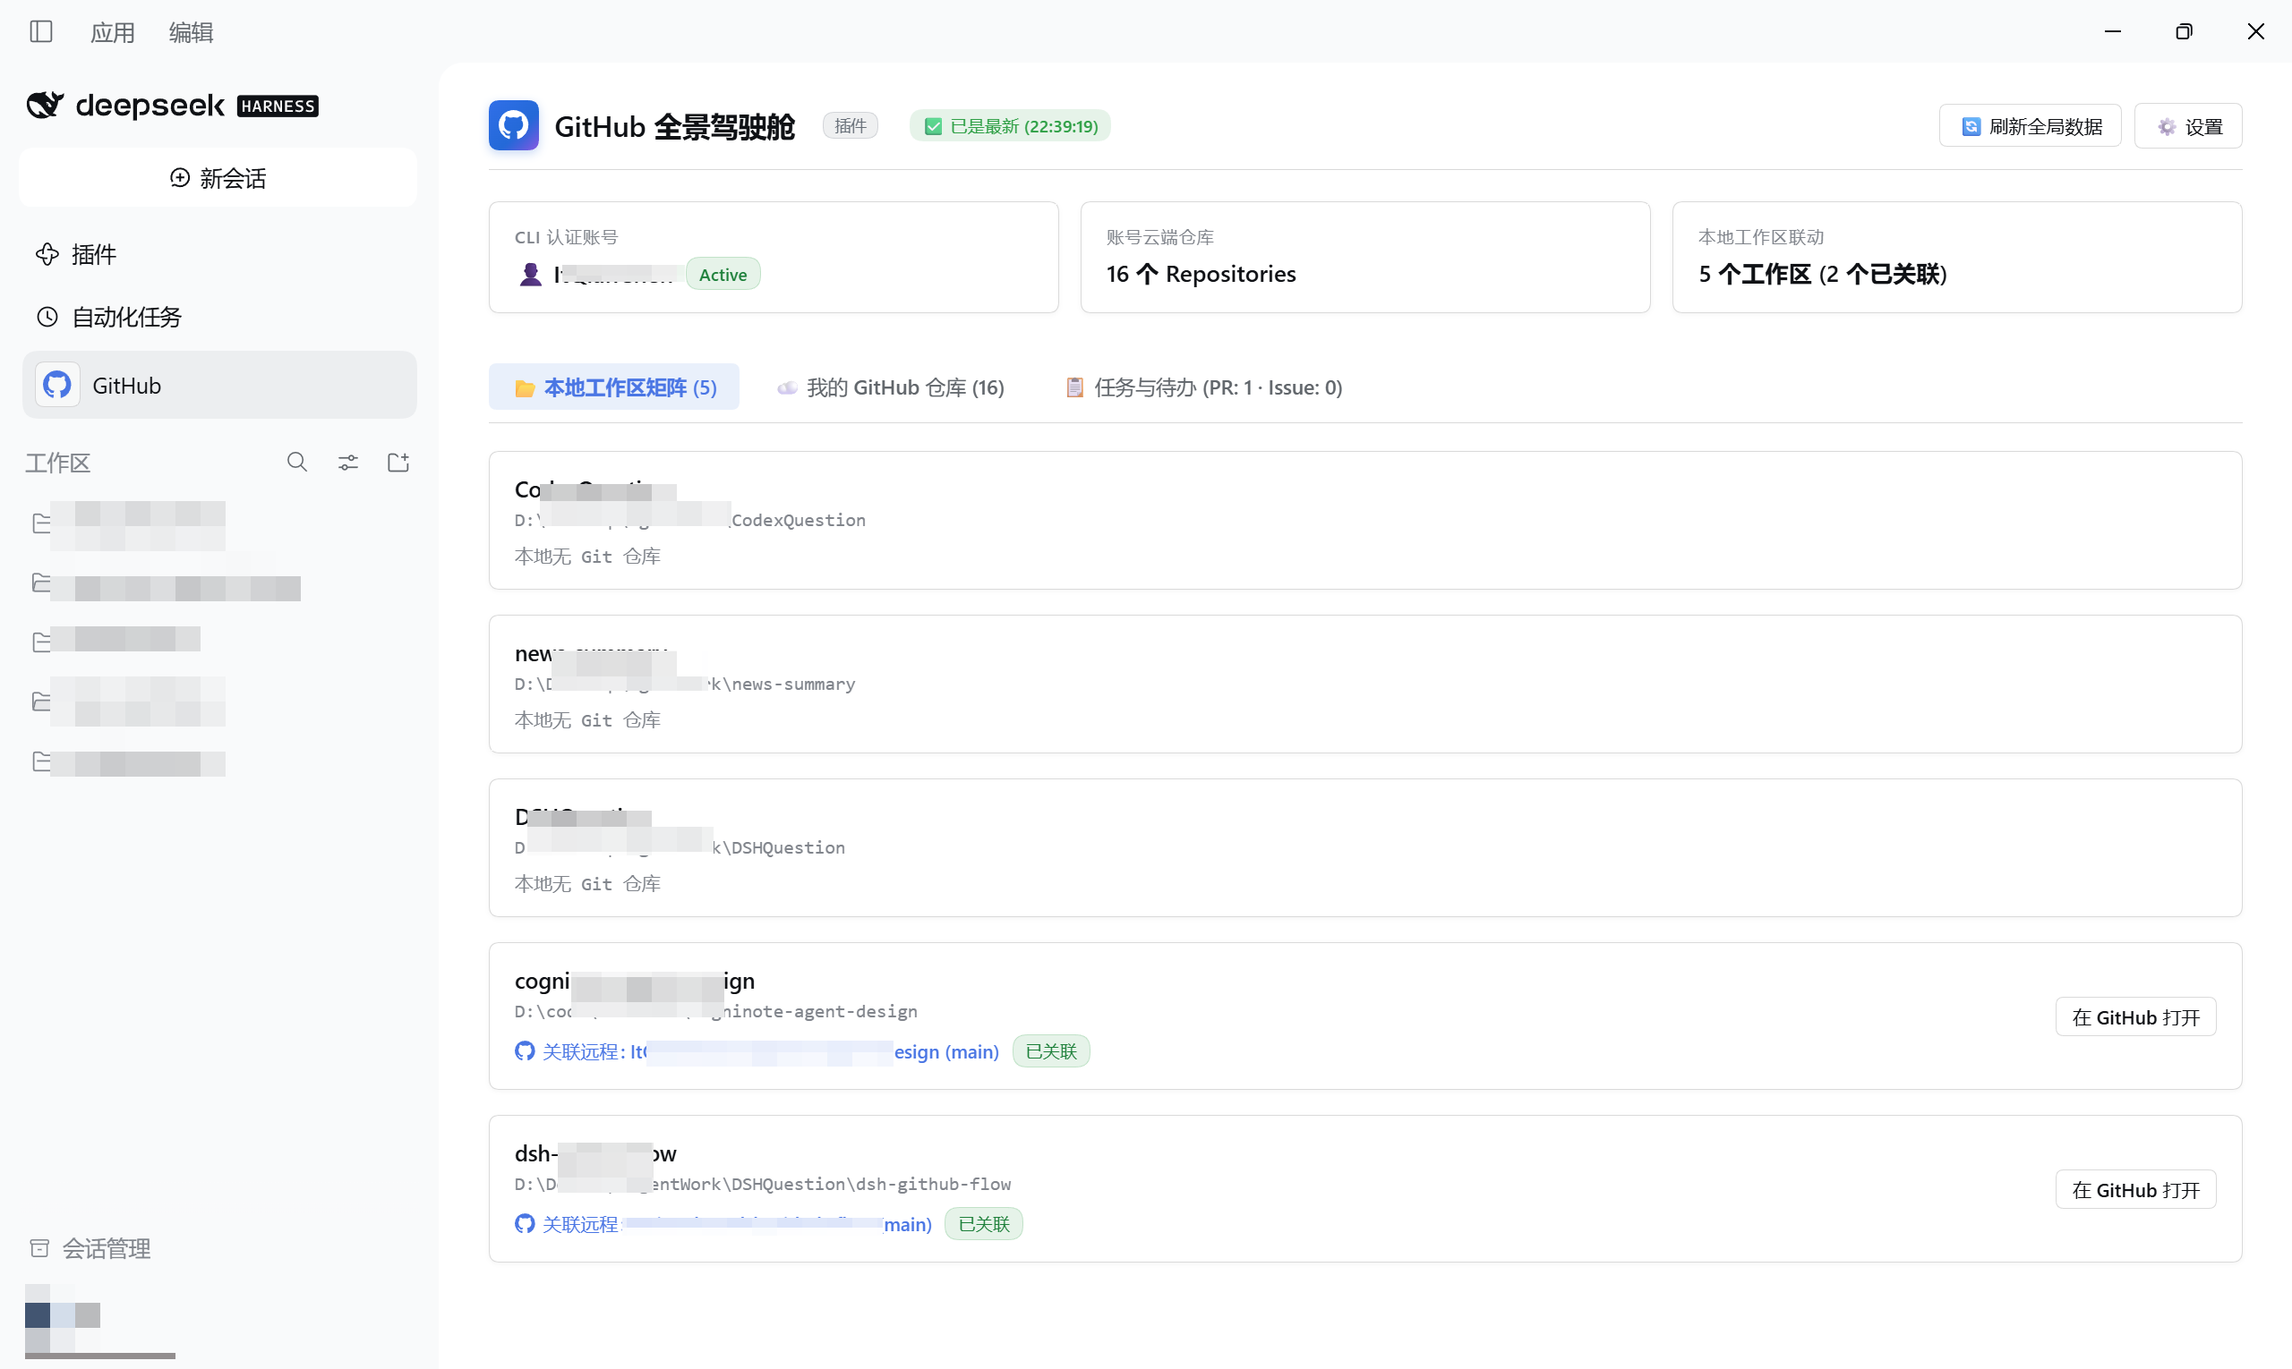
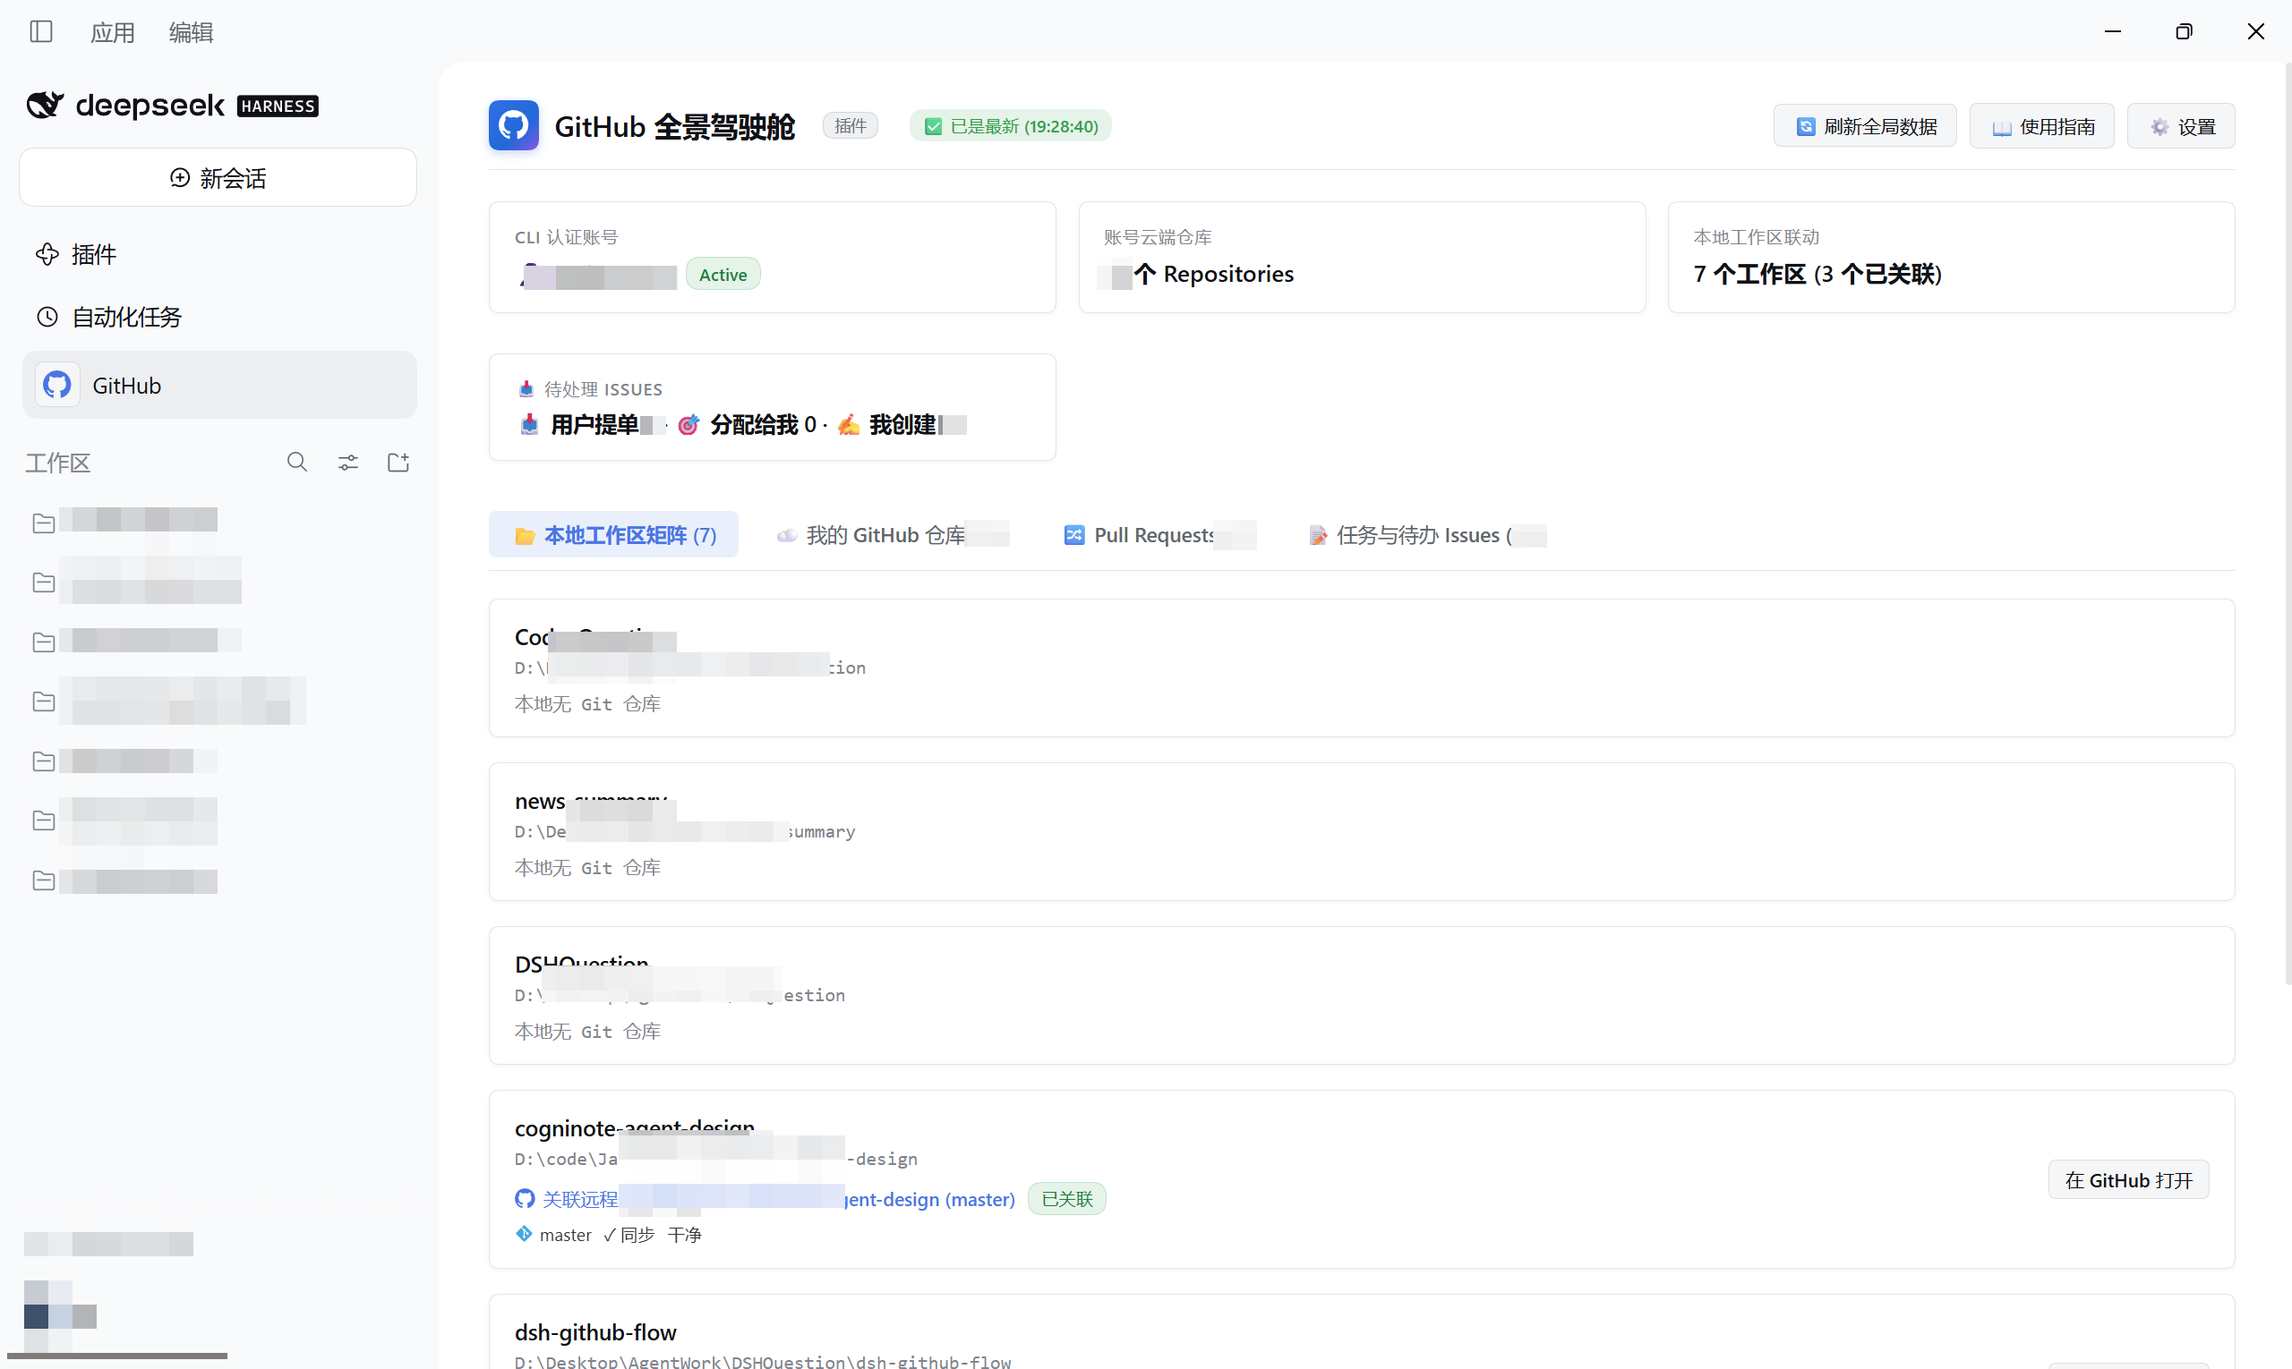
docs: 补充使用指南入口与架构实测数据，并同步驾驶舱截图
- README 中英双语新增「使用指南大窗口」入口，补充 view_images 图片缓存 LRU 与 DSH_IMAGE_DIR 说明
- architecture 修正 client.ts / 子模块 / CSS 行数与渲染器数量为实测值
- 更新全景驾驶舱截图，反映设置中心新增的使用指南页签

diff --git a/docs/architecture.md b/docs/architecture.md
@@ -115,8 +115,8 @@
 
 ### 2.3 上下文 Token 保护与防御性输出包装 (Token Budget Guard)
 - 所有的 `gh` 查询原生采用 `--json <fields>` 结构化投影；
-- 对长文本输出（如大型 PR 的完整 `diff`、CI 失败步骤日志）设置安全截断阈值（默认 24KB），采用码点安全切割与二分查找字节截断（`src/executor/process-utils.ts`），保留头尾关键上下文并添加显式截断标记，杜绝撑爆模型上下文；
-- 列表与详情输出经独立 Markdown 渲染引擎（`src/renderers/` 7 大领域模块）转化为高密度表格与卡片（带状态徽章、可点击超链接与竖线转义防护），实测 20 条 PR 列表输出压缩 70%+ Token；
+- 对长文本输出（如大型 PR 的完整 `diff`、CI 失败步骤日志）设置安全截断阈值（默认 24KB），采用码点安全切割与二分查找字节截断（`src/executor/process-utils.ts`），保留头尾关键上下文并添加显式截断标记，杜绝撑爆模型上下文；**程序化消费的大载荷可按调用点显式放宽**（PR diff 与 Issue 详情放宽至 2MB 字符 / 8MB 字节），因为这两类数据只在服务端切片后渲染，不进入模型上下文；**且一旦真的被截断必须显式失败**——截断会让 `JSON.parse` 被跳过、`data` 变 `undefined`，静默降级会渲染出「元数据全空 + 零评论」的假详情；
+- 列表与详情输出经独立 Markdown 渲染引擎（`src/renderers/` 15 大领域模块 + `common.ts` + `markdown.ts` 门面）转化为高密度表格与卡片（带状态徽章、可点击超链接与竖线转义防护），实测 20 条 PR 列表输出压缩 70%+ Token；
 - 所有 Agent 工具的输出统一经过归一化，列表自动打包为 `{ items, count }`，标量打包为 `{ result }`，100% 严丝合缝契合 DSH 工具网关模式约束；
 - **gh 版本守卫降级链（runGuarded）**：preview 命令与新特性按 `minVersion` 门槛路由——版本达标直通主命令、不足走 `fallback` 降级链路（结果携带 `degraded/degradedReason` 结构化标注，**降级不是静默的**，渲染层对 degraded 结果显式追加链路说明）、无降级时报错附平台升级指引；版本探测自身失败 fail-open 直通（守卫是路由优化不是安全边界）。版本比较采用数值分段（`src/executor/version-utils.ts`，杜绝 `'2.96.0' > '2.100.0'` 字典序陷阱），探测结果 30s TTL 缓存且只缓存成功值；
 - **AI_AGENT 识别信号注入**：每次 gh 子进程启动注入 `AI_AGENT=dsh`（gh detect.go 最高优先级通用信号）——gh ≥2.99 自动切换 text-only spinner、≥2.100 命令误用时打印完整 help（模型可据此自我纠正）、telemetry 归因到 dsh；旧版 gh 忽略该变量零副作用。经 `agentEnvInjection` 配置开关（默认开启）可恢复 gh 原生行为。
@@ -155,16 +155,18 @@
 
 ### 3.4 前端客户端解耦与自包含 Bundle 机制 (`src/ui/` + `src/client.ts`)
 - **源码物理剥离**：
-  - [src/client.ts](../src/client.ts)（由 5,290 行直降至 **1,263 行，瘦身 76%**）：仅保留右侧栏核心协同 `renderGithubRepoView` 与 `GithubRightbarBody` 及插件入口；
-  - 12 个独立子模块下沉至 [src/ui/](../src/ui/) 目录（样式 1,295 行、全景大面板 732 行、设置弹窗 561 行、业务卡片 60~290 行）；
+  - [src/client.ts](../src/client.ts)（当前约 2,400 行）：保留右侧栏核心协同 `renderGithubRepoView` 与 `GithubRightbarBody` 及插件入口；新增 UI 优先下沉到 `src/ui/`，不在入口文件里堆叠；
+  - **18 个独立子模块**下沉至 [src/ui/](../src/ui/) 目录：样式 2,506 行、全景大面板 932 行、PR 审阅弹窗 817 行、Issue 查看弹窗 565 行、设置弹窗 552 行、使用指南 408 行，其余卡片类组件 60~300 行；
 - **命名空间防护**：
   - 严禁在与 `package.json` 的 `exports["./client"]` 同级创建名为 `client/` 的目录，统一命名为 `src/ui/` 与编译产物 `lib/ui/`，彻底杜绝模块解析器产生“同名文件 vs 目录”的歧义报错；
 - **自包含 Bundle 聚合器 (`scripts/build.mjs`)**：
   - 构建脚本按严格拓扑顺序将 `lib/ui/` 子模块内联注入 `lib/client.js` 的 `window.__ModuleLoader__.load` 闭包中，移除 `export` 关键字；
-  - 保证 `GithubRightbarBody` 位于 `GithubWorkspacePanel` 之前（满足切片测试断言）；
-  - 对嵌入的 1,290 行纯 CSS 实施紧凑压缩，消除空行与多余注释，使编译产物从 5,282 行减至 4,008 行；
+  - **顺序即依赖**：`markdown-lite → pr-modal → issue-modal → …` 不可随意重排（`issue-modal` 复用了 `pr-modal` 的 `CollapsibleBody`）；`workspace-panel` 置于后置列表，保证 `GithubRightbarBody` 位于 `GithubWorkspacePanel` 之前；
+  - 对嵌入的约 2,500 行纯 CSS 实施紧凑压缩；压缩后强制校验「无注释定界符残留 / 无行首 `*` 悬空段 / 花括号配平」，任一项不过直接构建失败——非法 CSS 会被浏览器**静默丢弃整条规则**，只表现为「样式莫名不生效」，极难排查；
 - **React Hook 时序安全防线**：
-  - 组件内引用的 `useRef`（如 `containerRef`）必须在组件声明最前列初始化，严禁跨行下置引发变量提升 `undefined`；所有的 Ref 访问点必须配备 `containerRef && containerRef.current` 守卫，杜绝运行时渲染崩溃。
+  - 全部 Hook（含 `useEffect`）必须位于任何 early return 之前，否则「参数由空变有值」时两次渲染的 Hook 数量不一致，触发 `Rendered fewer hooks than expected` 崩溃；
+  - `renderGithubRepoView` 这类每次渲染都重新执行的普通函数内**禁止**调用 Hook，状态必须住在有 Hook 的组件体内再传参；
+  - 组件内引用的 `useRef`（如 `containerRef`）必须在组件声明最前列初始化，严禁跨行下置引发变量提升 `undefined`；所有的 Ref 访问点必须配备 `containerRef && containerRef.current` 守卫。
 
 ---
 

diff --git a/README.en.md b/README.en.md
@@ -378,7 +378,9 @@ Click the **Octocat icon** in DSH's left navigation bar to open the full-screen 
 * **Account-Wide Overview**: Live view of all cloud repositories, default branches, and star counts;
 * **Local Workspace Matrix**: Automatically detects open projects and bridges local directories with remote repos;
 * **3D Issue Governance Matrix**: Categorizes issues into *"📥 User Reported"*, *"🎯 Assigned to Me"*, and *"✍ Created by Me"* with responsive pill filters;
-* **Update Notification Banner**: Smoothly glides down when an update is available with one-click automated upgrade.
+* **Update Notification Banner**: Smoothly glides down when an update is available with one-click automated upgrade;
+* **🔀 PR Review Workbench**: Click any PR to review author, branch flow, CI/review status, Markdown description, comment timeline, and the changed-file list with high-fidelity unified diffs — all without leaving DSH (diffs are sliced per file in memory, so switching files is instant);
+* **📝 Issue Online Viewer**: Click any Issue to read the full discussion — body and comments rendered as Markdown, long content collapsed, GitHub-hidden (SPAM) comments explicitly flagged, with label chips, assignees, milestone, sub-issue progress, and linked PRs.
 
 <p align="center">
   <img src="./docs/images/1.png" alt="GitHub Global Cockpit" width="100%" />
@@ -402,8 +404,8 @@ Located in the right drawer of every chat workspace, seamlessly bridging your lo
     * Latest Release badge (`🏷 v0.4.0`) anchored in the top right with hover details and direct release link;
     * **Commit Detail Modal**: Click any commit row to open a clean modal dialog centered within the right sidebar, featuring smooth vertical scrolling, full 40-char SHA, author email, date, multi-line commit message body, and file diff stat table (`--stat`), pure local 0ms instant display;
   * **Uncommitted Changes (`📁 Uncommitted (N)`)**: Full-width list of uncommitted files with color-coded status codes (`??` untracked, `M` modified, `D` deleted, `R` renamed) and change counts;
-  * **Pull Requests (`🔀 PR (N)`)**: Open PR inspection with 3-state CI check rollup (`✅ CI Passed` / `❌ CI Failed` / `⏳ CI Pending`), merge conflict detection, review decisions (`✔ Approved` / `✋ Changes Requested` / `👀 Review Required`), Draft pills, and humanized relative timestamps;
-  * **Workspace Issues (`📋 Issues (N)`)**: Direct issue task review with assignees, labels, and category pills;
+  * **Pull Requests (`🔀 PR (N)`)**: Shows **all** PRs (merged/closed included, default "All"), with status pills `All / 🟢 Open / 🟣 Merged / ⚪ Closed` showing per-state counts; 3-state CI rollup (`✅ CI Passed` / `❌ CI Failed` / `⏳ CI Pending`), merge conflict detection, review decisions (`✔ Approved` / `✋ Changes Requested` / `👀 Review Required`), Draft pills, and humanized timestamps; **click a card to open the in-app PR review workbench**, while `GitHub ↗` still jumps to the browser;
+  * **Workspace Issues (`📋 Issues (N)`)**: Shows **all** issues (closed included, default "All"), with status pills `All / 🟢 Open / ⚪ Closed`; **click a card to open the in-app Issue viewer** (Markdown body / comment timeline / labels & milestone, Esc to close), while `GitHub ↗` still jumps to the browser;
   * **Actions Pipeline (`⚡ Actions (N)`)**: Real-time CI workflow status tracking with trigger event badges (`push`/`schedule`/`manual`/`PR`), relative time, and self-healing diagnostic notes for failed runs (embedding `run_id` for Agent one-click log inspection);
 * **⚙ Full Settings Access**: Dedicated settings button reusing the same settings modal as the cockpit (all four sections: Sync / Proxy / Update Source / About) — no need to switch back to the main page.
 
@@ -411,7 +413,17 @@ Located in the right drawer of every chat workspace, seamlessly bridging your lo
   <img src="./docs/images/2.png" alt="Session Right Sidebar Panel" width="100%" />
 </p>
 
-### 3. Settings Center (Settings Modal)
+### 3. Help & Playbook Modal
+Click **`[📖 Help]`** in the top right of the Cockpit (or the ❓ button in the right sidebar) to open the 920px immersive manual; press Esc or click the backdrop to close. Five sections:
+* **🚀 3-Minute Quickstart**: login check → workspace binding → first Agent instruction, plus a capability overview (18 tools / 103 business actions / 2 workbenches);
+* **🤖 Agent Prompt Playbook**: 7 high-frequency scenarios (open a PR, CI triage, daily standup, diff review, screenshot triage, bulk label governance, RFC discussion), each with one-click prompt copy;
+* **🖥 UI Walkthrough**: per-tab documentation for the 4-tab Cockpit and the 5-tab right sidebar, plus shared modal interaction habits;
+* **🧰 18-Tool Reference**: all tools and actions grouped into daily development / delivery & config / ecosystem & collaboration / escape hatches, with a `/gh` command cheat sheet;
+* **🔑 Troubleshooting**: login, missing scopes, the 24h supply-chain protection window, proxy flapping, empty lists, and why a DSH restart is needed.
+
+> The same knowledge is exposed to Agents via the `github_help` tool — both sides are asserted against the source tree by phase33, so docs drifting from code fails the test suite.
+
+### 4. Settings Center (Settings Modal)
 Click **`[⚙ Settings]`** in the top right of the Cockpit (or the ⚙ button in the right sidebar) to open the sectioned settings modal:
 
 **🔄 Data Sync Section** — tune data fetching rhythm and perception sensitivity:

diff --git a/README.md b/README.md
@@ -121,7 +121,7 @@ dsh plugin --profile web add dsh-github-flow
   * `pin` / `unpin`：🆕 仓库 Issue 置顶状态管理；
   * `lock` / `unlock`：🆕 锁定讨论区，支持 4 种官方合法理由（`off_topic` / `resolved` / `spam` / `too_heated`）；
   * `status`：🆕 检索指派给当前登录用户的待办议题全景面板；
-  * `view_images`：🆕 下载 Issue 报障截图（正文+评论全量识别并转为本地图片块，Agent 直接"看"截图）；
+  * `view_images`：🆕 下载 Issue 报障截图（正文+评论全量识别并转为本地图片块，Agent 直接"看"截图）；落地目录 `~/.dsh/data/dsh-github-flow/images/`（内容寻址去重），**超 15MB 时按 mtime 自动 LRU 淘汰至 10MB 低水位**，并保护当前批次已写入的文件；测试可用 `DSH_IMAGE_DIR` 重定向该目录；
   * `attach_images`（参数）：🆕 支持本地文件/截图直接作为附件随 Issue 发布（单批上限 50 个文件，需 gh ≥ 2.99）。
 
 ---
@@ -412,7 +412,17 @@ dsh plugin --profile web add dsh-github-flow
   <img src="./docs/images/2.png" alt="右侧栏工作区面板" width="100%" />
 </p>
 
-### 3. 设置中心 (Settings Modal)
+### 3. 使用指南大窗口 (Help & Playbook)
+点击驾驶舱右上角 **`[📖 使用指南]`**（或右侧栏的 ❓ 按钮）打开 920px 宽屏沉浸式手册，按 Esc 或点遮罩即可关闭。共 5 个分类：
+* **🚀 3分钟极速上手**：登录确认 → 绑定仓库 → 向 Agent 下指令的三步闭环，附能力总览（18 工具 / 103 业务动作 / 2 套工作台）；
+* **🤖 Agent 提示词实战**：7 大高频场景（建 PR、CI 排障、待办盘点、Diff 审查、看图定位、批量标签治理、RFC 研讨），每条配「📋 一键复制 Prompt」；
+* **🖥 两大界面操作图解**：主面板 4 标签与右侧栏 5 Tab 的逐项说明，以及两个弹窗的通用操作习惯；
+* **🧰 18 大工具速查**：按「日常研发 / 交付配置 / 生态协作 / 兜底元能力」四组列出全部工具与动作，附 `/gh` 指令速查；
+* **🔑 常见自愈排错**：登录、权限 Scope、24h 安全保护期、代理抖动、列表为空、为何需重启 DSH 共 6 条。
+
+> 同一套知识也通过 `github_help` 工具提供给 Agent——两侧口径由 phase33 测试强制对账，代码演进而文档没跟上会直接测试失败。
+
+### 4. 设置中心 (Settings Modal)
 点击全景驾驶舱右上角 **`[⚙ 设置]`**（或右侧栏的 ⚙ 按钮）打开分区式设置弹窗，左侧分区导航、右侧内容独立滚动（窄屏自动折叠为横向页签）：
 
 **🔄 数据同步分区**——调优数据拉取节奏与感知灵敏度：
